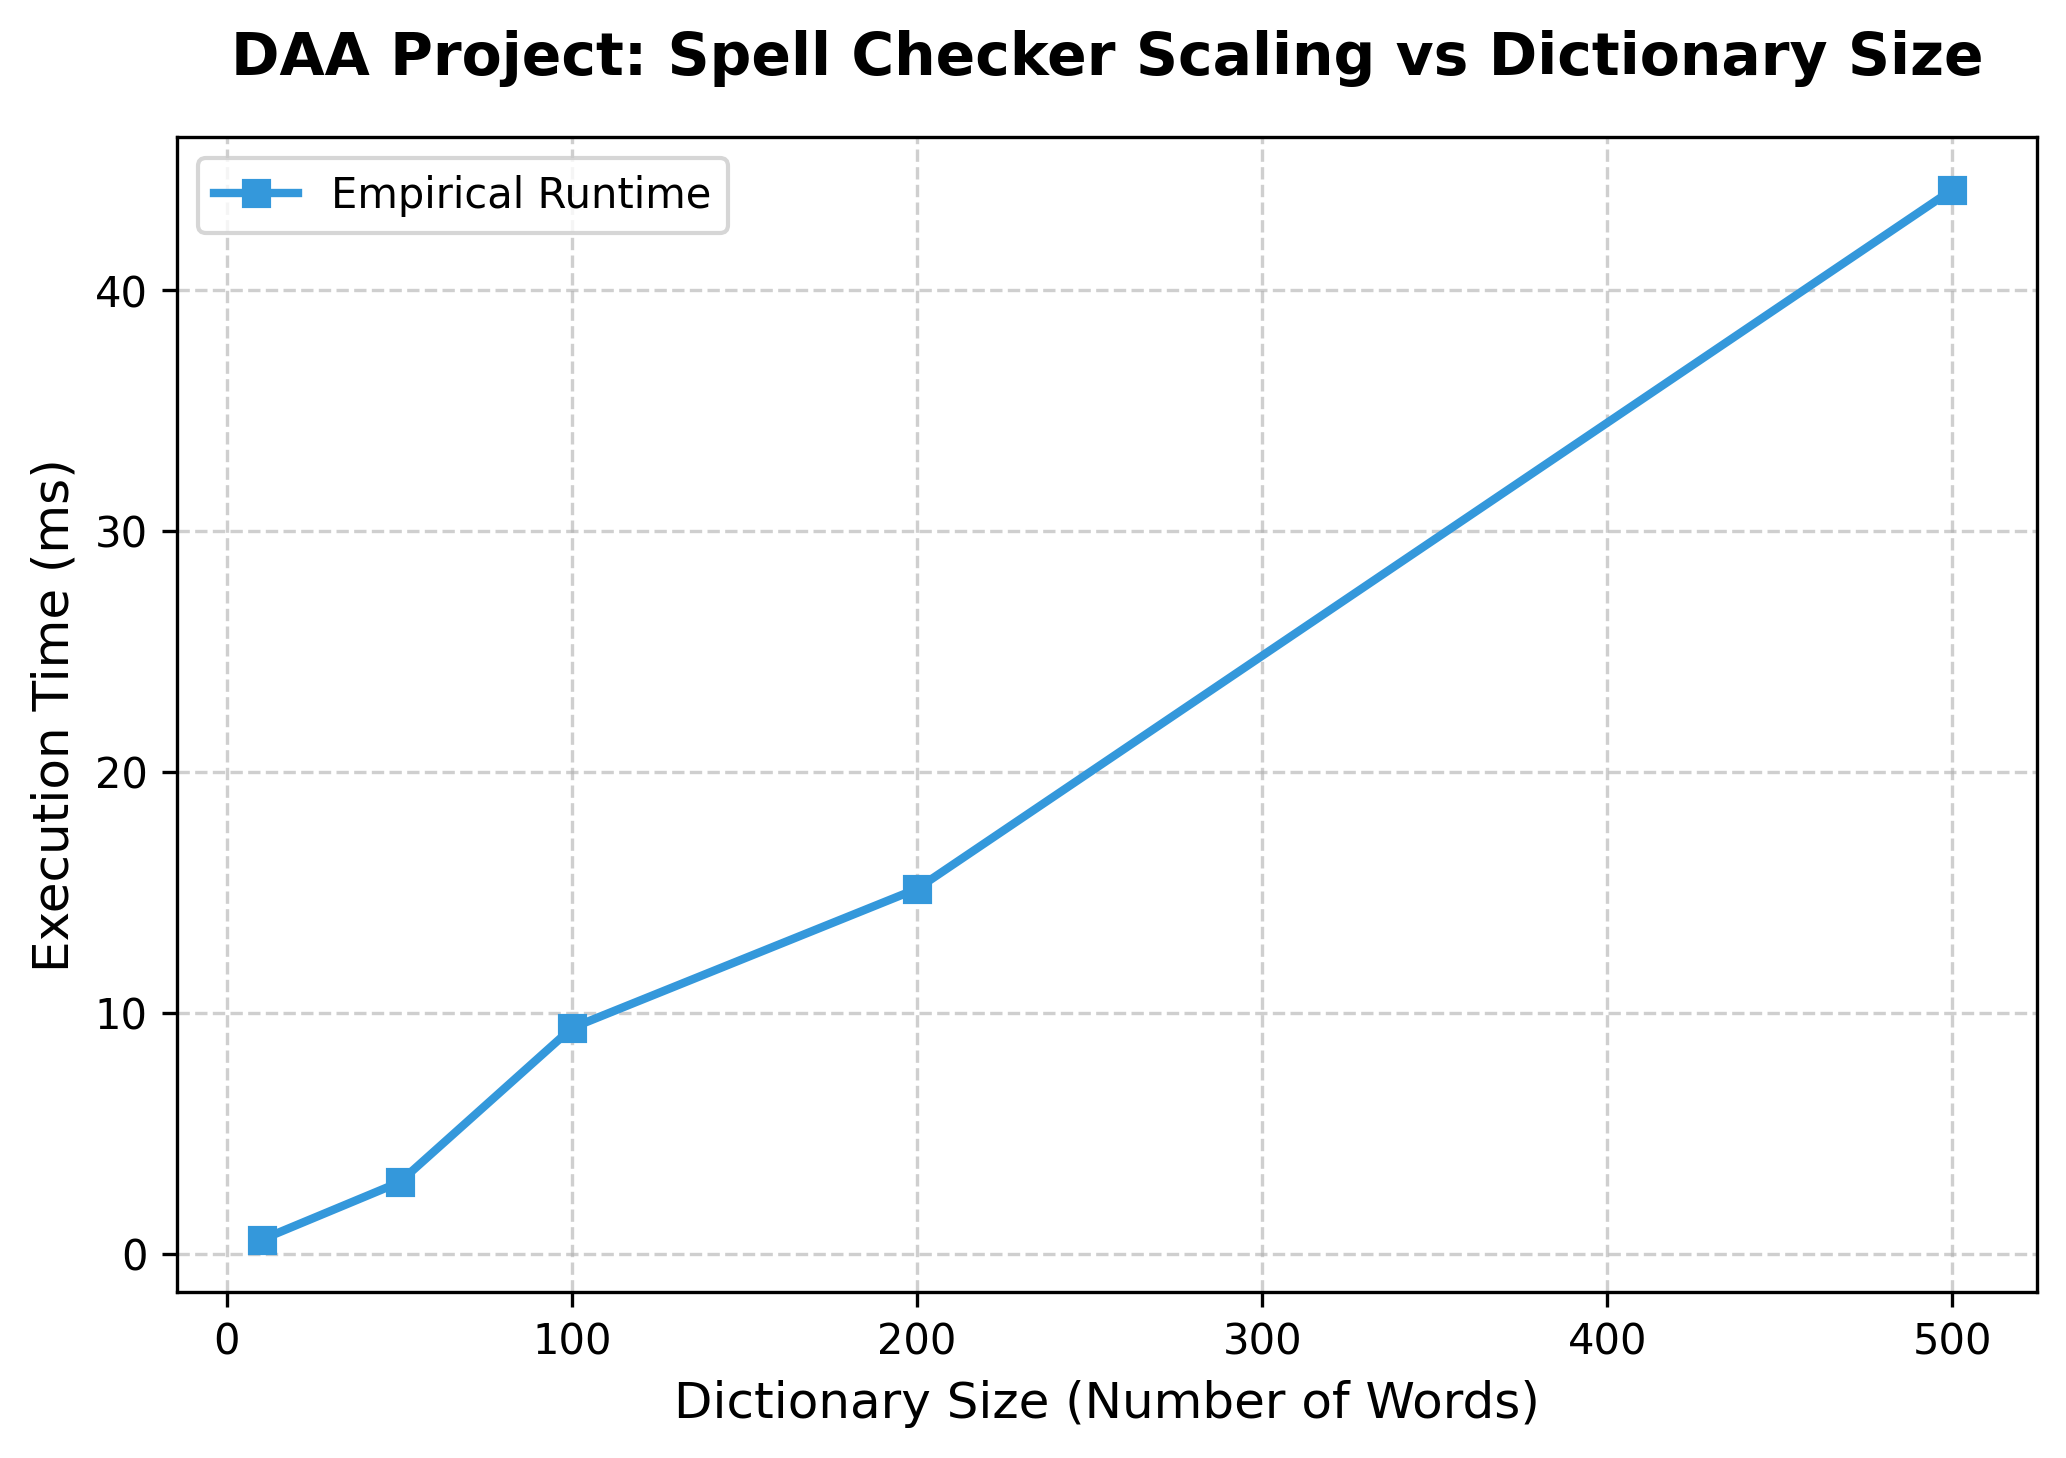
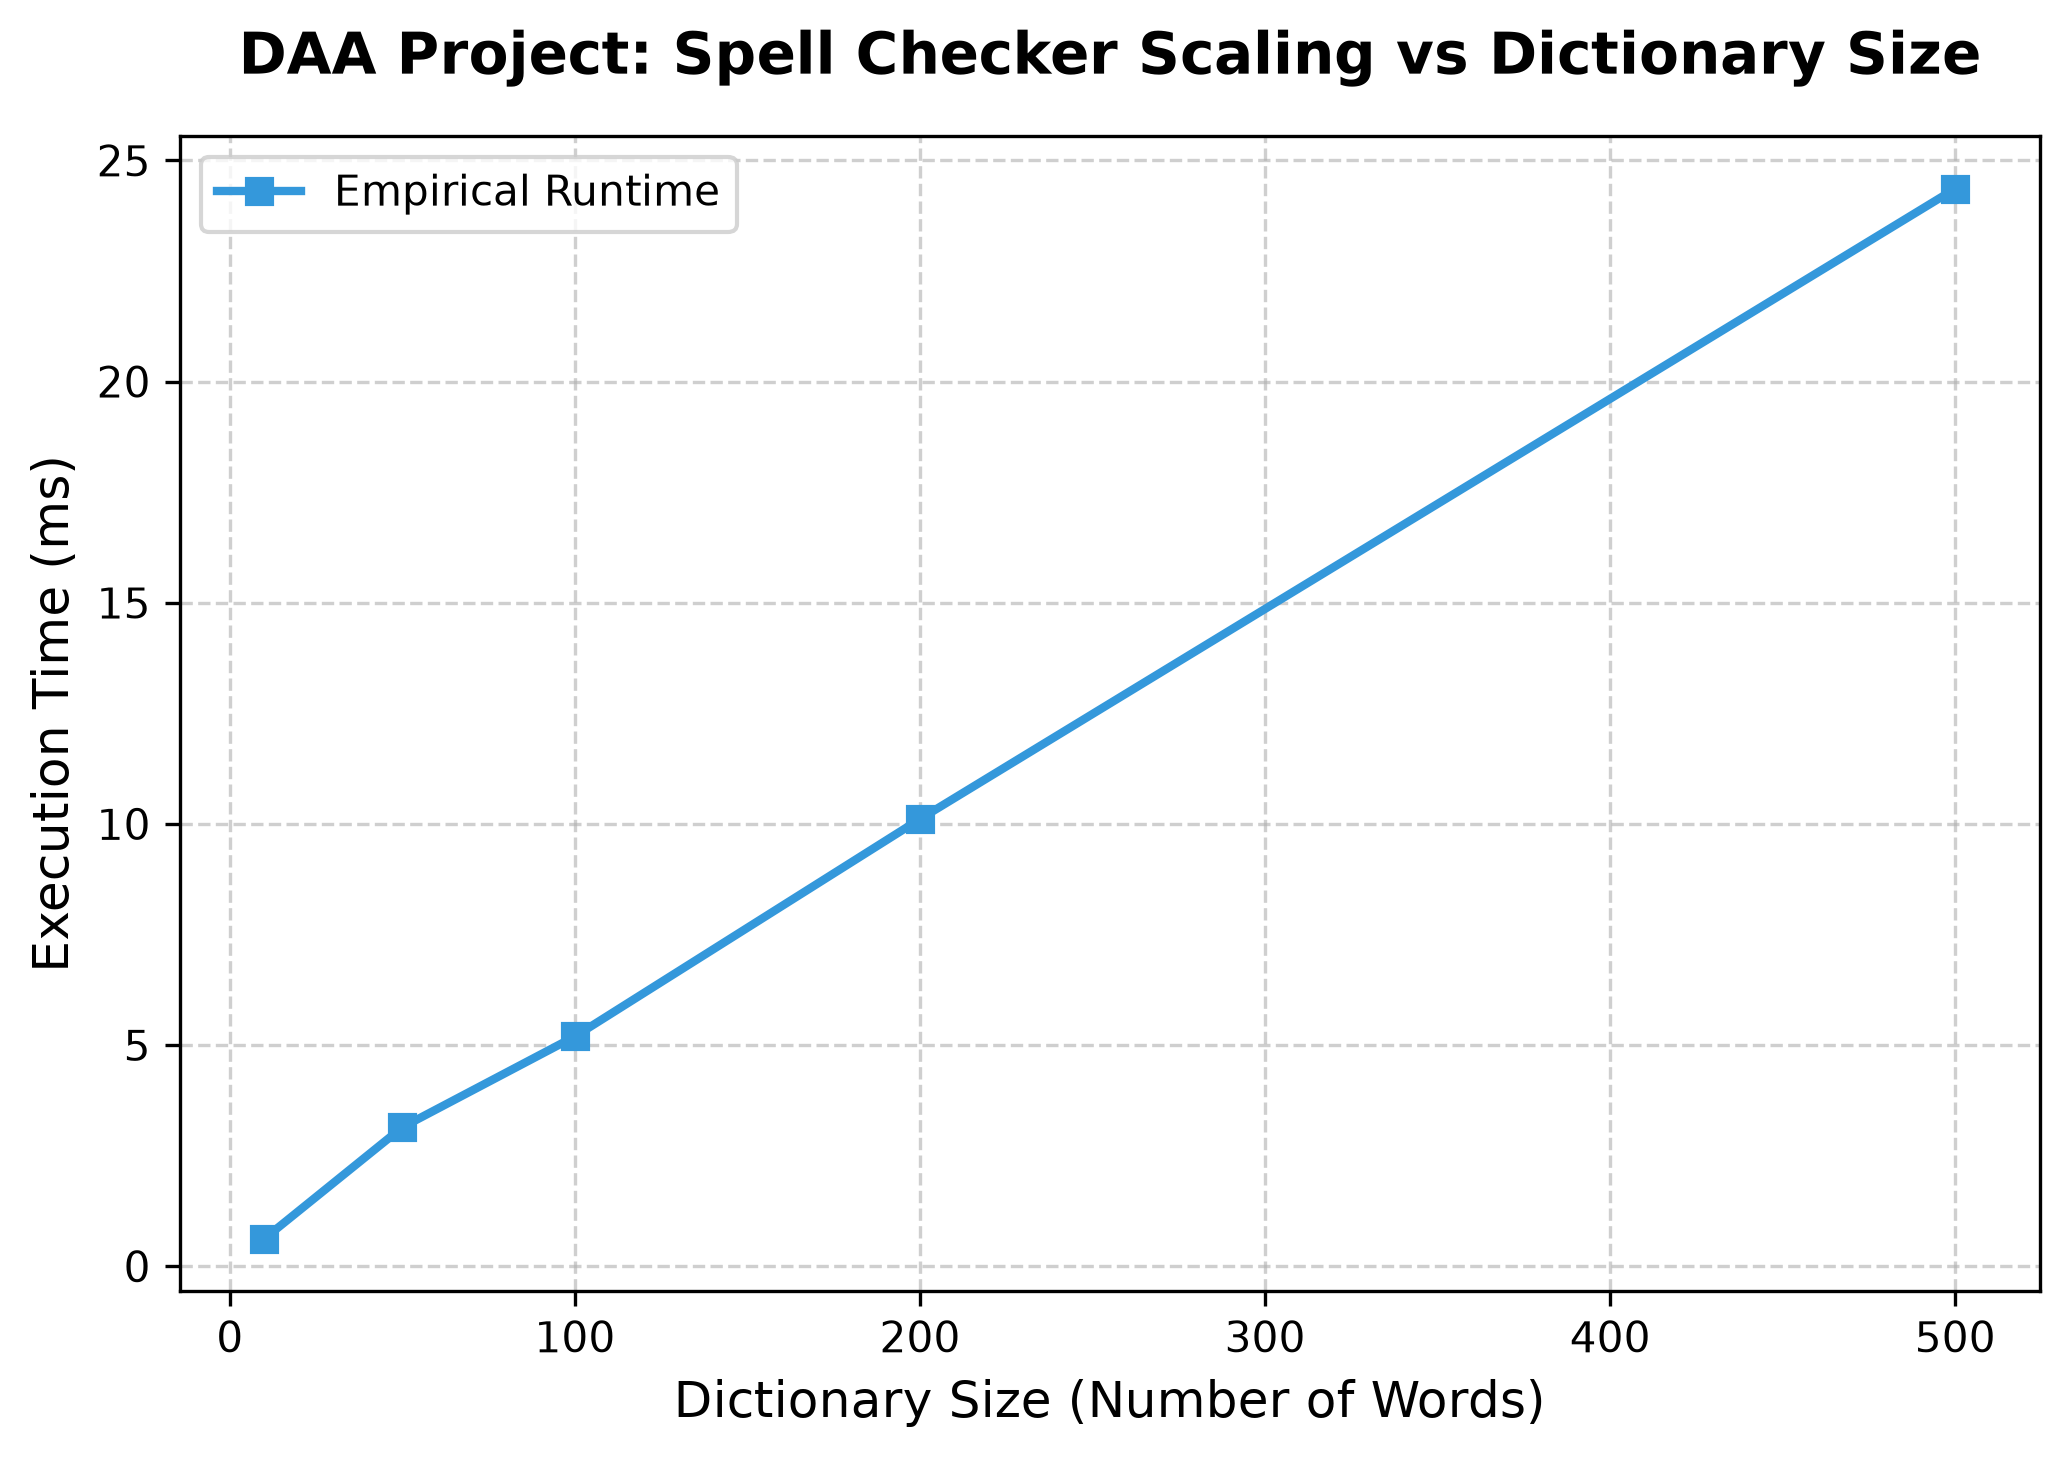
Fix Windows console encoding and update performance curve plot

diff --git a/spell_checker_suggest.py b/spell_checker_suggest.py
@@ -1,6 +1,10 @@
 import time
 import os
+import sys
 import matplotlib.pyplot as plt
+
+if sys.stdout and hasattr(sys.stdout, "reconfigure"):
+    sys.stdout.reconfigure(encoding="utf-8")
 
 class DAAAlgorithmTracker:
     """Intercepts execution cycles to track runtimes, space costs, and complexity analysis."""
